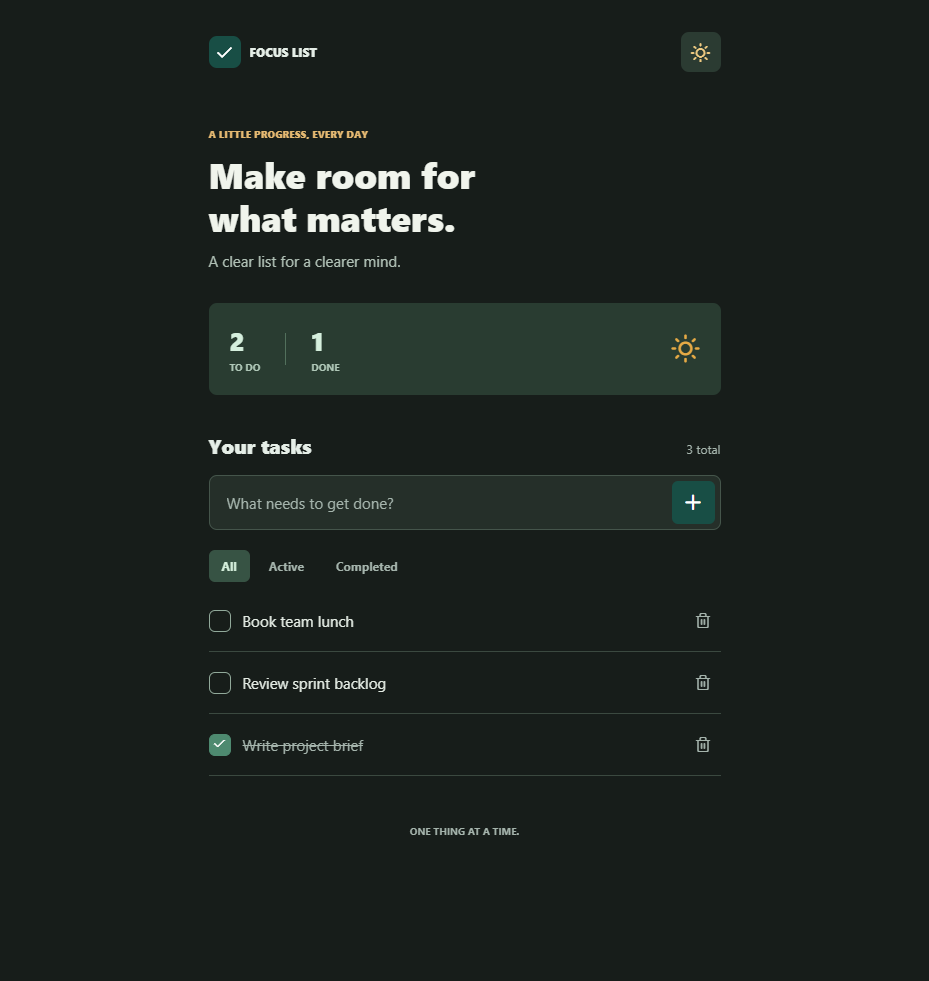
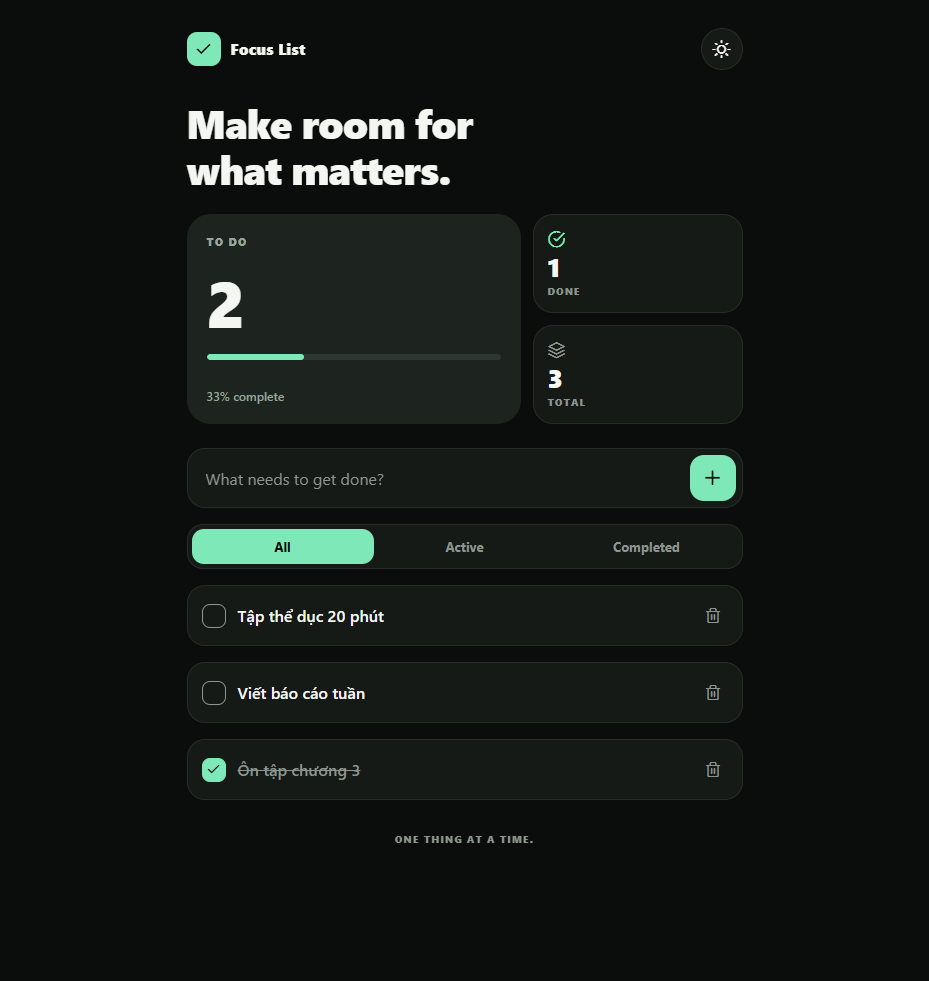
Redesign focus list UI for presentation
Dark-first layout with a bento summary, larger type, one accent color,
segmented filters, and a light/dark toggle. Storage, task logic, and
accessibility labels are unchanged.

diff --git a/App.js b/App.js
@@ -1,5 +1,5 @@
 import React, { useEffect, useRef, useState } from 'react';
-import { ActivityIndicator, KeyboardAvoidingView, Platform, Pressable, SafeAreaView, ScrollView, StyleSheet, Text, TextInput, useColorScheme, View } from 'react-native';
+import { ActivityIndicator, KeyboardAvoidingView, Platform, Pressable, SafeAreaView, ScrollView, StyleSheet, Text, TextInput, View } from 'react-native';
 import { StatusBar } from 'expo-status-bar';
 import AsyncStorage from '@react-native-async-storage/async-storage';
 import { Feather } from '@expo/vector-icons';
@@ -8,6 +8,11 @@ import { addTask, deleteTask, filterTasks, toggleTask } from './src/tasks';
 const STORAGE_KEY = '@focus-list/tasks-v1';
 const THEME_KEY = '@focus-list/theme-v1';
 const FILTERS = ['all', 'active', 'completed'];
+
+const PALETTE = {
+  dark: { bg: '#0b0d0c', card: '#161a17', border: '#262c27', text: '#f4f6f2', muted: '#8d958f', accent: '#7ee8b8', accentText: '#0b0d0c', hero: '#1d231e', heroTrack: '#2e3830', heroText: '#f4f6f2', heroMuted: '#9aa59e', danger: '#ff9a8a' },
+  light: { bg: '#f2f3ef', card: '#ffffff', border: '#e0e3dd', text: '#111412', muted: '#6b726c', accent: '#1f8f63', accentText: '#ffffff', hero: '#111412', heroTrack: '#2a302b', heroText: '#f4f6f2', heroMuted: '#9aa39c', danger: '#b3261e' },
+};
 
 export default function App() {
   const [tasks, setTasks] = useState([]);
@@ -18,7 +23,6 @@ export default function App() {
   const [themePreference, setThemePreference] = useState(null);
   const [themeReady, setThemeReady] = useState(false);
   const [themeError, setThemeError] = useState(false);
-  const systemTheme = useColorScheme();
   const writeQueue = useRef(Promise.resolve());
   const writeFailed = useRef(false);
   const themeWriteQueue = useRef(Promise.resolve());
@@ -65,9 +69,13 @@ export default function App() {
     });
   }, [tasks, loading, storageError]);
 
+  // Dark is the default look for the presentation; the saved choice overrides it.
+  const isDark = (themePreference ?? 'dark') === 'dark';
+  const t = isDark ? PALETTE.dark : PALETTE.light;
   const activeCount = tasks.filter((task) => !task.completed).length;
+  const doneCount = tasks.length - activeCount;
+  const progress = tasks.length === 0 ? 0 : Math.round((doneCount / tasks.length) * 100);
   const visibleTasks = filterTasks(tasks, filter);
-  const isDark = (themePreference || systemTheme) === 'dark';
 
   function toggleTheme() {
     const nextTheme = isDark ? 'light' : 'dark';
@@ -87,49 +95,81 @@ export default function App() {
   }
 
   return (
-    <SafeAreaView style={[styles.safeArea, isDark && darkStyles.safeArea]}>
+    <SafeAreaView style={[styles.safeArea, { backgroundColor: t.bg }]}>
       <StatusBar style={isDark ? 'light' : 'dark'} />
       <KeyboardAvoidingView style={styles.flex} behavior={Platform.OS === 'ios' ? 'padding' : undefined}>
         <ScrollView contentContainerStyle={styles.page} keyboardShouldPersistTaps="handled">
           <View style={styles.topline}>
-            <View style={styles.brandIcon}><Feather name="check" size={19} color="#ffffff" /></View>
-            <Text style={[styles.brand, isDark && darkStyles.brand]}>FOCUS LIST</Text>
-            <Pressable accessibilityRole="switch" accessibilityLabel="Dark mode" accessibilityState={{ checked: isDark, disabled: !themeReady }} aria-checked={isDark} onPress={toggleTheme} disabled={!themeReady} style={[styles.themeButton, isDark && darkStyles.themeButton]}>
-              <Feather name={isDark ? 'sun' : 'moon'} size={19} color={isDark ? '#f0cc83' : '#315a4c'} />
+            <View style={[styles.brandIcon, { backgroundColor: t.accent }]}><Feather name="check" size={18} color={t.accentText} /></View>
+            <Text style={[styles.brand, { color: t.text }]}>Focus List</Text>
+            <Pressable accessibilityRole="switch" accessibilityLabel="Dark mode" accessibilityState={{ checked: isDark, disabled: !themeReady }} aria-checked={isDark} onPress={toggleTheme} disabled={!themeReady} style={[styles.themeButton, { backgroundColor: t.card, borderColor: t.border }]}>
+              <Feather name={isDark ? 'sun' : 'moon'} size={18} color={t.text} />
             </Pressable>
           </View>
 
-          <View style={styles.heading}>
-            <Text style={[styles.eyebrow, isDark && darkStyles.eyebrow]}>A LITTLE PROGRESS, EVERY DAY</Text>
-            <Text style={[styles.title, isDark && darkStyles.title]}>Make room for{ '\n' }what matters.</Text>
-            <Text style={[styles.subtitle, isDark && darkStyles.subtitle]}>A clear list for a clearer mind.</Text>
+          <Text style={[styles.title, { color: t.text }]}>{'Make room for\nwhat matters.'}</Text>
+
+          <View style={styles.bento}>
+            <View style={[styles.heroCard, { backgroundColor: t.hero }]}>
+              <Text style={[styles.heroLabel, { color: t.heroMuted }]}>TO DO</Text>
+              <Text style={[styles.heroNumber, { color: t.heroText }]}>{activeCount}</Text>
+              <View style={[styles.track, { backgroundColor: t.heroTrack }]}>
+                <View style={[styles.fill, { width: `${progress}%`, backgroundColor: t.accent }]} />
+              </View>
+              <Text style={[styles.heroCaption, { color: t.heroMuted }]}>{progress}% complete</Text>
+            </View>
+            <View style={styles.sideColumn}>
+              <View style={[styles.smallCard, { backgroundColor: t.card, borderColor: t.border }]}>
+                <Feather name="check-circle" size={18} color={t.accent} />
+                <Text style={[styles.smallNumber, { color: t.text }]}>{doneCount}</Text>
+                <Text style={[styles.smallLabel, { color: t.muted }]}>DONE</Text>
+              </View>
+              <View style={[styles.smallCard, { backgroundColor: t.card, borderColor: t.border }]}>
+                <Feather name="layers" size={18} color={t.muted} />
+                <Text style={[styles.smallNumber, { color: t.text }]}>{tasks.length}</Text>
+                <Text style={[styles.smallLabel, { color: t.muted }]}>TOTAL</Text>
+              </View>
+            </View>
           </View>
 
-          <View style={[styles.summary, isDark && darkStyles.summary]}>
-            <View><Text style={[styles.summaryNumber, isDark && darkStyles.summaryNumber]}>{activeCount}</Text><Text style={[styles.summaryLabel, isDark && darkStyles.summaryLabel]}>TO DO</Text></View>
-            <View style={[styles.summaryDivider, isDark && darkStyles.summaryDivider]} />
-            <View><Text style={[styles.summaryNumber, isDark && darkStyles.summaryNumber]}>{tasks.length - activeCount}</Text><Text style={[styles.summaryLabel, isDark && darkStyles.summaryLabel]}>DONE</Text></View>
-            <Feather name="sun" size={28} color="#e6aa45" style={styles.summaryIcon} />
+          <View style={[styles.inputCard, { backgroundColor: t.card, borderColor: t.border }]}>
+            <TextInput accessibilityLabel="New task" style={[styles.input, { color: t.text }]} placeholder="What needs to get done?" placeholderTextColor={t.muted} keyboardAppearance={isDark ? 'dark' : 'light'} value={title} onChangeText={setTitle} onSubmitEditing={handleAdd} maxLength={120} returnKeyType="done" />
+            <Pressable accessibilityRole="button" accessibilityLabel="Add task" onPress={handleAdd} style={[styles.addButton, { backgroundColor: t.accent }]}><Feather name="plus" size={22} color={t.accentText} /></Pressable>
           </View>
 
-          <View style={styles.sectionHeading}><Text style={[styles.sectionTitle, isDark && darkStyles.sectionTitle]}>Your tasks</Text><Text style={[styles.sectionCount, isDark && darkStyles.secondary]}>{tasks.length} total</Text></View>
-          <View style={[styles.inputRow, isDark && darkStyles.inputRow]}>
-            <TextInput accessibilityLabel="New task" style={[styles.input, isDark && darkStyles.input]} placeholder="What needs to get done?" placeholderTextColor={isDark ? '#a5b4ac' : '#8c9693'} keyboardAppearance={isDark ? 'dark' : 'light'} value={title} onChangeText={setTitle} onSubmitEditing={handleAdd} maxLength={120} returnKeyType="done" />
-            <Pressable accessibilityRole="button" accessibilityLabel="Add task" onPress={handleAdd} style={styles.addButton}><Feather name="plus" size={23} color="#ffffff" /></Pressable>
+          <View style={[styles.segments, { backgroundColor: t.card, borderColor: t.border }]}>
+            {FILTERS.map((item) => {
+              const selected = filter === item;
+              return (
+                <Pressable key={item} accessibilityRole="button" accessibilityState={{ selected }} onPress={() => setFilter(item)} style={[styles.segment, selected && { backgroundColor: t.accent }]}>
+                  <Text style={[styles.segmentText, { color: selected ? t.accentText : t.muted }]}>{item[0].toUpperCase() + item.slice(1)}</Text>
+                </Pressable>
+              );
+            })}
           </View>
-          <View style={styles.filters}>
-            {FILTERS.map((item) => <Pressable key={item} accessibilityRole="button" accessibilityState={{ selected: filter === item }} onPress={() => setFilter(item)} style={[styles.filter, filter === item && styles.filterSelected, isDark && filter === item && darkStyles.filterSelected]}><Text style={[styles.filterText, isDark && darkStyles.secondary, filter === item && styles.filterTextSelected, isDark && filter === item && darkStyles.filterTextSelected]}>{item[0].toUpperCase() + item.slice(1)}</Text></Pressable>)}
-          </View>
-          {storageError && <Text accessibilityRole="alert" style={[styles.error, isDark && darkStyles.error]}>Could not access saved tasks. Changes in this session will not be saved.</Text>}
-          {themeError && <Text accessibilityRole="alert" style={[styles.error, isDark && darkStyles.error]}>Could not access your saved appearance preference.</Text>}
-          {loading ? <ActivityIndicator color={isDark ? '#a7d2bb' : '#184e45'} style={styles.empty} /> : visibleTasks.length === 0 ? <View style={styles.empty}><Feather name="coffee" size={24} color={isDark ? '#a5b4ac' : '#8da59c'} /><Text style={[styles.emptyTitle, isDark && darkStyles.emptyTitle]}>{tasks.length === 0 ? 'A fresh start.' : 'Nothing here right now.'}</Text><Text style={[styles.emptyText, isDark && darkStyles.secondary]}>{tasks.length === 0 ? 'Add a task and take it one step at a time.' : 'Try another filter to see your tasks.'}</Text></View> : visibleTasks.map((task) => (
-            <View key={task.id} style={[styles.taskRow, isDark && darkStyles.taskRow]}>
-              <Pressable accessibilityRole="checkbox" accessibilityState={{ checked: task.completed }} accessibilityLabel={`${task.completed ? 'Mark active' : 'Complete'}: ${task.title}`} onPress={() => setTasks((current) => toggleTask(current, task.id))} style={[styles.checkbox, isDark && darkStyles.checkbox, task.completed && styles.checked]}>{task.completed && <Feather name="check" size={14} color="#ffffff" />}</Pressable>
-              <Text style={[styles.taskTitle, isDark && darkStyles.taskTitle, task.completed && styles.taskCompleted, isDark && task.completed && darkStyles.secondary]}>{task.title}</Text>
-              <Pressable accessibilityRole="button" accessibilityLabel={`Delete: ${task.title}`} onPress={() => setTasks((current) => deleteTask(current, task.id))} style={styles.deleteButton}><Feather name="trash-2" size={17} color={isDark ? '#a5b4ac' : '#8d9994'} /></Pressable>
+
+          {storageError && <Text accessibilityRole="alert" style={[styles.error, { color: t.danger }]}>Could not access saved tasks. Changes in this session will not be saved.</Text>}
+          {themeError && <Text accessibilityRole="alert" style={[styles.error, { color: t.danger }]}>Could not access your saved appearance preference.</Text>}
+
+          {loading ? <ActivityIndicator color={t.accent} style={styles.empty} /> : visibleTasks.length === 0 ? (
+            <View style={[styles.emptyCard, { backgroundColor: t.card, borderColor: t.border }]}>
+              <Feather name="coffee" size={26} color={t.accent} />
+              <Text style={[styles.emptyTitle, { color: t.text }]}>{tasks.length === 0 ? 'A fresh start.' : 'Nothing here right now.'}</Text>
+              <Text style={[styles.emptyText, { color: t.muted }]}>{tasks.length === 0 ? 'Add a task and take it one step at a time.' : 'Try another filter to see your tasks.'}</Text>
+            </View>
+          ) : visibleTasks.map((task) => (
+            <View key={task.id} style={[styles.taskCard, { backgroundColor: t.card, borderColor: t.border }]}>
+              <Pressable accessibilityRole="checkbox" accessibilityState={{ checked: task.completed }} accessibilityLabel={`${task.completed ? 'Mark active' : 'Complete'}: ${task.title}`} onPress={() => setTasks((current) => toggleTask(current, task.id))} style={[styles.checkbox, { borderColor: task.completed ? t.accent : t.muted, backgroundColor: task.completed ? t.accent : 'transparent' }]}>
+                {task.completed && <Feather name="check" size={15} color={t.accentText} />}
+              </Pressable>
+              <Text style={[styles.taskTitle, { color: task.completed ? t.muted : t.text }, task.completed && styles.taskCompleted]}>{task.title}</Text>
+              <Pressable accessibilityRole="button" accessibilityLabel={`Delete: ${task.title}`} onPress={() => setTasks((current) => deleteTask(current, task.id))} hitSlop={8} style={styles.deleteButton}>
+                <Feather name="trash-2" size={17} color={t.muted} />
+              </Pressable>
             </View>
           ))}
-          <Text style={[styles.footer, isDark && darkStyles.secondary]}>ONE THING AT A TIME.</Text>
+
+          <Text style={[styles.footer, { color: t.muted }]}>ONE THING AT A TIME.</Text>
         </ScrollView>
       </KeyboardAvoidingView>
     </SafeAreaView>
@@ -137,25 +177,40 @@ export default function App() {
 }
 
 const styles = StyleSheet.create({
-  safeArea: { flex: 1, backgroundColor: '#f5f7f4' }, flex: { flex: 1 },
-  page: { width: '100%', maxWidth: 560, alignSelf: 'center', paddingHorizontal: 24, paddingTop: 32, paddingBottom: 42 },
-  topline: { flexDirection: 'row', alignItems: 'center', gap: 9 }, brandIcon: { width: 32, height: 32, borderRadius: 8, backgroundColor: '#184e45', alignItems: 'center', justifyContent: 'center' }, brand: { color: '#183d36', fontSize: 12, fontWeight: '800' }, themeButton: { marginLeft: 'auto', width: 40, height: 40, borderRadius: 8, backgroundColor: '#e4eee7', alignItems: 'center', justifyContent: 'center' },
-  heading: { marginTop: 55 }, eyebrow: { color: '#b97a36', fontWeight: '800', fontSize: 10 }, title: { color: '#193b34', fontSize: 36, fontWeight: '800', lineHeight: 43, marginTop: 12 }, subtitle: { color: '#74847c', fontSize: 15, marginTop: 12 },
-  summary: { marginTop: 32, padding: 21, backgroundColor: '#e4eee7', borderRadius: 8, flexDirection: 'row', alignItems: 'center', gap: 25 }, summaryNumber: { color: '#184e45', fontSize: 25, fontWeight: '800' }, summaryLabel: { color: '#6e8b7c', fontSize: 10, fontWeight: '700', marginTop: 3 }, summaryDivider: { width: 1, height: 32, backgroundColor: '#c5d9cc' }, summaryIcon: { marginLeft: 'auto' },
-  sectionHeading: { marginTop: 37, marginBottom: 16, flexDirection: 'row', alignItems: 'baseline', justifyContent: 'space-between' }, sectionTitle: { color: '#223e37', fontSize: 20, fontWeight: '800' }, sectionCount: { color: '#8d9992', fontSize: 12 },
-  inputRow: { flexDirection: 'row', backgroundColor: '#ffffff', borderColor: '#dce5df', borderWidth: 1, borderRadius: 8, padding: 5 }, input: { flex: 1, paddingHorizontal: 12, paddingVertical: 10, fontSize: 15, color: '#233f38' }, addButton: { width: 43, height: 43, borderRadius: 6, backgroundColor: '#184e45', alignItems: 'center', justifyContent: 'center' },
-  filters: { flexDirection: 'row', gap: 6, marginTop: 20, marginBottom: 8 }, filter: { paddingVertical: 8, paddingHorizontal: 13, borderRadius: 6 }, filterSelected: { backgroundColor: '#dcebe0' }, filterText: { color: '#899790', fontSize: 12, fontWeight: '700' }, filterTextSelected: { color: '#235a4a' },
-  taskRow: { minHeight: 62, flexDirection: 'row', alignItems: 'center', borderBottomWidth: 1, borderBottomColor: '#e4ebe6', gap: 12 }, checkbox: { height: 22, width: 22, borderRadius: 6, borderWidth: 1.5, borderColor: '#afc1b5', alignItems: 'center', justifyContent: 'center' }, checked: { backgroundColor: '#4e8a70', borderColor: '#4e8a70' }, taskTitle: { flex: 1, color: '#2c443b', fontSize: 15 }, taskCompleted: { color: '#9aa8a0', textDecorationLine: 'line-through' }, deleteButton: { padding: 9 },
-  empty: { alignItems: 'center', paddingVertical: 42 }, emptyTitle: { color: '#46685a', fontWeight: '700', fontSize: 15, marginTop: 12 }, emptyText: { color: '#91a198', fontSize: 13, marginTop: 6, textAlign: 'center' }, error: { color: '#a23d33', marginTop: 12, fontSize: 13 }, footer: { color: '#a5b3aa', fontSize: 10, fontWeight: '700', textAlign: 'center', marginTop: 48 },
-});
-
-const darkStyles = StyleSheet.create({
-  safeArea: { backgroundColor: '#171d1a' }, brand: { color: '#e5eee7' }, themeButton: { backgroundColor: '#2b3b32' },
-  eyebrow: { color: '#e5b971' }, title: { color: '#f0f4ec' }, subtitle: { color: '#b0c0b5' },
-  summary: { backgroundColor: '#293c31' }, summaryNumber: { color: '#d5efdd' }, summaryLabel: { color: '#afc7b7' }, summaryDivider: { backgroundColor: '#52705c' },
-  sectionTitle: { color: '#e5eee7' }, secondary: { color: '#a5b4ac' },
-  inputRow: { backgroundColor: '#252f29', borderColor: '#45554b' }, input: { color: '#eef4ee' },
-  filterSelected: { backgroundColor: '#375344' }, filterTextSelected: { color: '#d6f0dd' },
-  taskRow: { borderBottomColor: '#3b4940' }, checkbox: { borderColor: '#91a99a' }, taskTitle: { color: '#e3ebe3' },
-  emptyTitle: { color: '#d0dfd2' }, error: { color: '#ffb5a7' },
+  safeArea: { flex: 1 },
+  flex: { flex: 1 },
+  page: { width: '100%', maxWidth: 600, alignSelf: 'center', paddingHorizontal: 22, paddingTop: 28, paddingBottom: 48, gap: 16 },
+  topline: { flexDirection: 'row', alignItems: 'center', gap: 10 },
+  brandIcon: { width: 34, height: 34, borderRadius: 10, alignItems: 'center', justifyContent: 'center' },
+  brand: { fontSize: 15, fontWeight: '800', letterSpacing: 0.3 },
+  themeButton: { marginLeft: 'auto', width: 42, height: 42, borderRadius: 21, borderWidth: 1, alignItems: 'center', justifyContent: 'center' },
+  title: { fontSize: 40, fontWeight: '900', lineHeight: 46, letterSpacing: -0.8, marginTop: 14, marginBottom: 6 },
+  bento: { flexDirection: 'row', gap: 12 },
+  heroCard: { flex: 1.4, borderRadius: 24, padding: 20, justifyContent: 'space-between', minHeight: 176 },
+  heroLabel: { fontSize: 11, fontWeight: '800', letterSpacing: 1.2 },
+  heroNumber: { fontSize: 64, fontWeight: '900', lineHeight: 70, letterSpacing: -2 },
+  track: { height: 6, borderRadius: 3, overflow: 'hidden' },
+  fill: { height: 6, borderRadius: 3 },
+  heroCaption: { fontSize: 12, fontWeight: '600', marginTop: 10 },
+  sideColumn: { flex: 1, gap: 12 },
+  smallCard: { flex: 1, borderRadius: 20, borderWidth: 1, padding: 14, justifyContent: 'space-between' },
+  smallNumber: { fontSize: 26, fontWeight: '900' },
+  smallLabel: { fontSize: 10, fontWeight: '800', letterSpacing: 1 },
+  inputCard: { flexDirection: 'row', alignItems: 'center', borderWidth: 1, borderRadius: 18, padding: 6, marginTop: 8 },
+  input: { flex: 1, paddingHorizontal: 12, paddingVertical: 12, fontSize: 16 },
+  addButton: { width: 46, height: 46, borderRadius: 14, alignItems: 'center', justifyContent: 'center' },
+  segments: { flexDirection: 'row', borderWidth: 1, borderRadius: 16, padding: 4 },
+  segment: { flex: 1, paddingVertical: 9, borderRadius: 12, alignItems: 'center' },
+  segmentText: { fontSize: 13, fontWeight: '700' },
+  taskCard: { flexDirection: 'row', alignItems: 'center', borderWidth: 1, borderRadius: 18, paddingVertical: 14, paddingHorizontal: 14, gap: 12 },
+  checkbox: { width: 24, height: 24, borderRadius: 8, borderWidth: 1.5, alignItems: 'center', justifyContent: 'center' },
+  taskTitle: { flex: 1, fontSize: 16, fontWeight: '500' },
+  taskCompleted: { textDecorationLine: 'line-through' },
+  deleteButton: { padding: 6 },
+  emptyCard: { alignItems: 'center', borderWidth: 1, borderRadius: 18, paddingVertical: 32, paddingHorizontal: 20, gap: 6 },
+  emptyTitle: { fontSize: 16, fontWeight: '800', marginTop: 6 },
+  emptyText: { fontSize: 13, textAlign: 'center' },
+  empty: { paddingVertical: 36 },
+  error: { fontSize: 13, fontWeight: '600' },
+  footer: { fontSize: 10, fontWeight: '800', letterSpacing: 1.2, textAlign: 'center', marginTop: 16 },
 });
